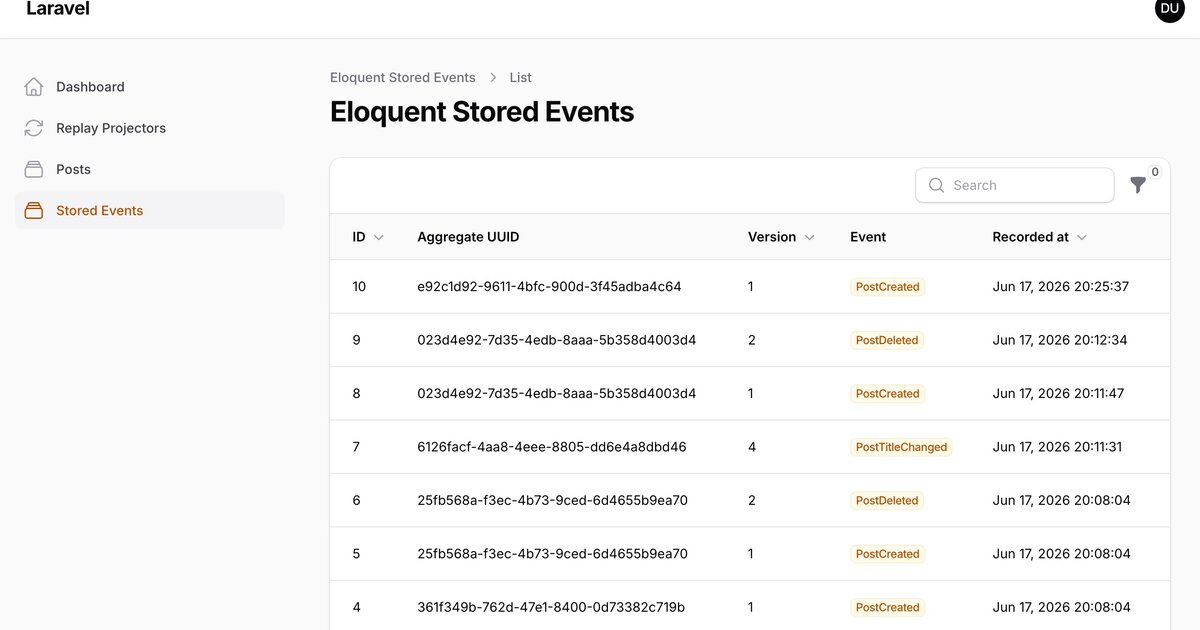
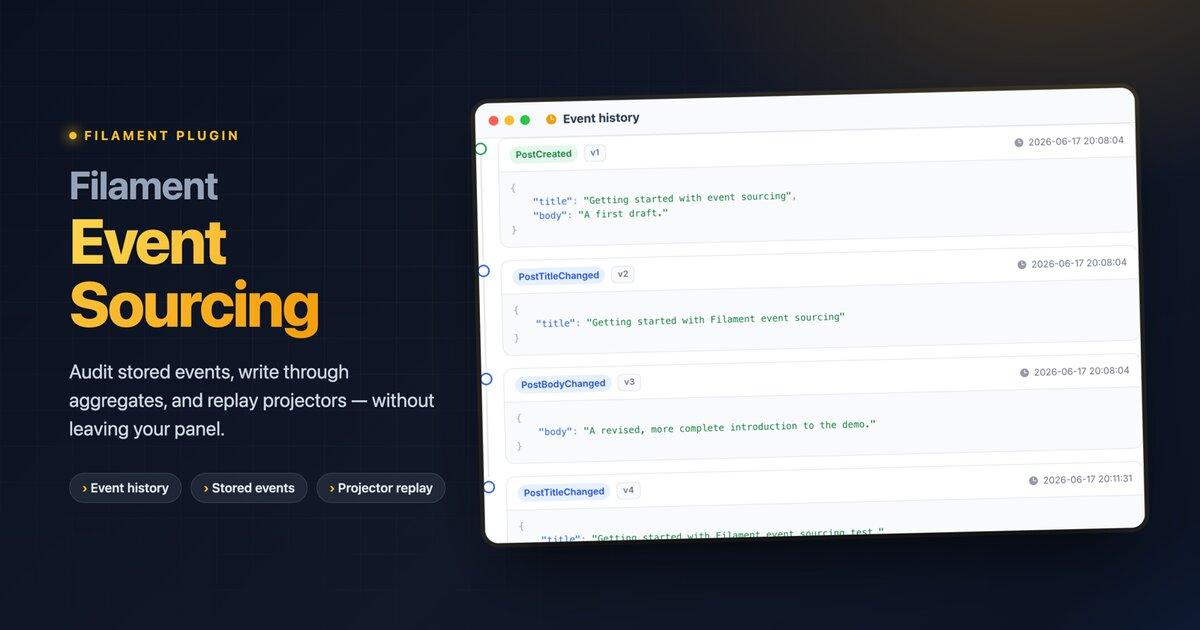
feat: refresh images in filament-event-sourcing post
Replace cover and add full screenshot set: posts list
with row History action, slide-over and relation-tab
event history views, stored events browser and detail,
replay confirmation and notification.

diff --git a/src/content/posts/introducing-filament-event-sourcing/index.md b/src/content/posts/introducing-filament-event-sourcing/index.md
@@ -15,7 +15,7 @@ description: "A Filament plugin that routes every create, edit, and delete throu
 socialImage: "/images/posts/introducing-filament-event-sourcing/cover.jpg"
 ---
 
-![Filament stored events browser](/images/posts/introducing-filament-event-sourcing/cover.jpg)
+![Filament Event Sourcing plugin](/images/posts/introducing-filament-event-sourcing/cover.jpg)
 
 Filament is a great admin panel. Event sourcing is a great architectural pattern. Getting the two to work together, though, has always meant compromises: either you bypass your aggregates and write directly to the database, or you ditch Filament's create/edit flows and build everything from scratch. I've been using both in the same projects for a while, and that friction kept bothering me. So I built a plugin to remove it.
 
@@ -25,13 +25,25 @@ Filament is a great admin panel. Event sourcing is a great architectural pattern
 
 The plugin ships with a few things I found myself needing every time I mixed Filament with event sourcing.
 
-The first is an event history browser. Every record gets a dedicated view of its event log: event class, timestamp, version, and the full JSON payload on expand. It's available either as a relation manager tab or as a slide-over action on the table. No extra setup: add the trait to your resource and it appears.
+![Posts list with per-row History action](/images/posts/introducing-filament-event-sourcing/posts-list.webp)
 
-![Per-record event history with expandable JSON payloads](/images/posts/introducing-filament-event-sourcing/post-event-details.webp)
+The first is an event history browser. Every record gets a dedicated view of its event log: event class, timestamp, version, and the full JSON payload on expand. It's available either as a relation manager tab on the view page, or as a slide-over action on the table row. No extra setup: add the trait to your resource and it appears.
+
+![Per-record event history as a slide-over with expandable JSON payloads](/images/posts/introducing-filament-event-sourcing/event-history.webp)
+
+![Per-record event history as a relation manager tab](/images/posts/introducing-filament-event-sourcing/event-history-relation-tab.webp)
 
 The second is a system-wide stored events browser. This gives you a searchable, filterable view of every event in your application, across all aggregates. You can filter by event class, aggregate UUID, or date range. It's read-only by design, which keeps the event log immutable.
 
+![System-wide stored events browser](/images/posts/introducing-filament-event-sourcing/stored-event-browser.webp)
+
+![Stored event detail view with full payload and metadata](/images/posts/introducing-filament-event-sourcing/stored-event-view.webp)
+
 The third is a projector replay page. You can trigger a replay for any registered projector directly from the admin panel, one at a time, with a live count of how many events were processed. Access is controlled by a three-layer authorization system: a plugin-level option, a config flag, and a Gate ability for fine-grained control.
+
+![Projector replay confirmation](/images/posts/introducing-filament-event-sourcing/replay-step-2-confirmation.webp)
+
+![Projector replay notification](/images/posts/introducing-filament-event-sourcing/replay-step-3-notification.webp)
 
 ## How to install it
 